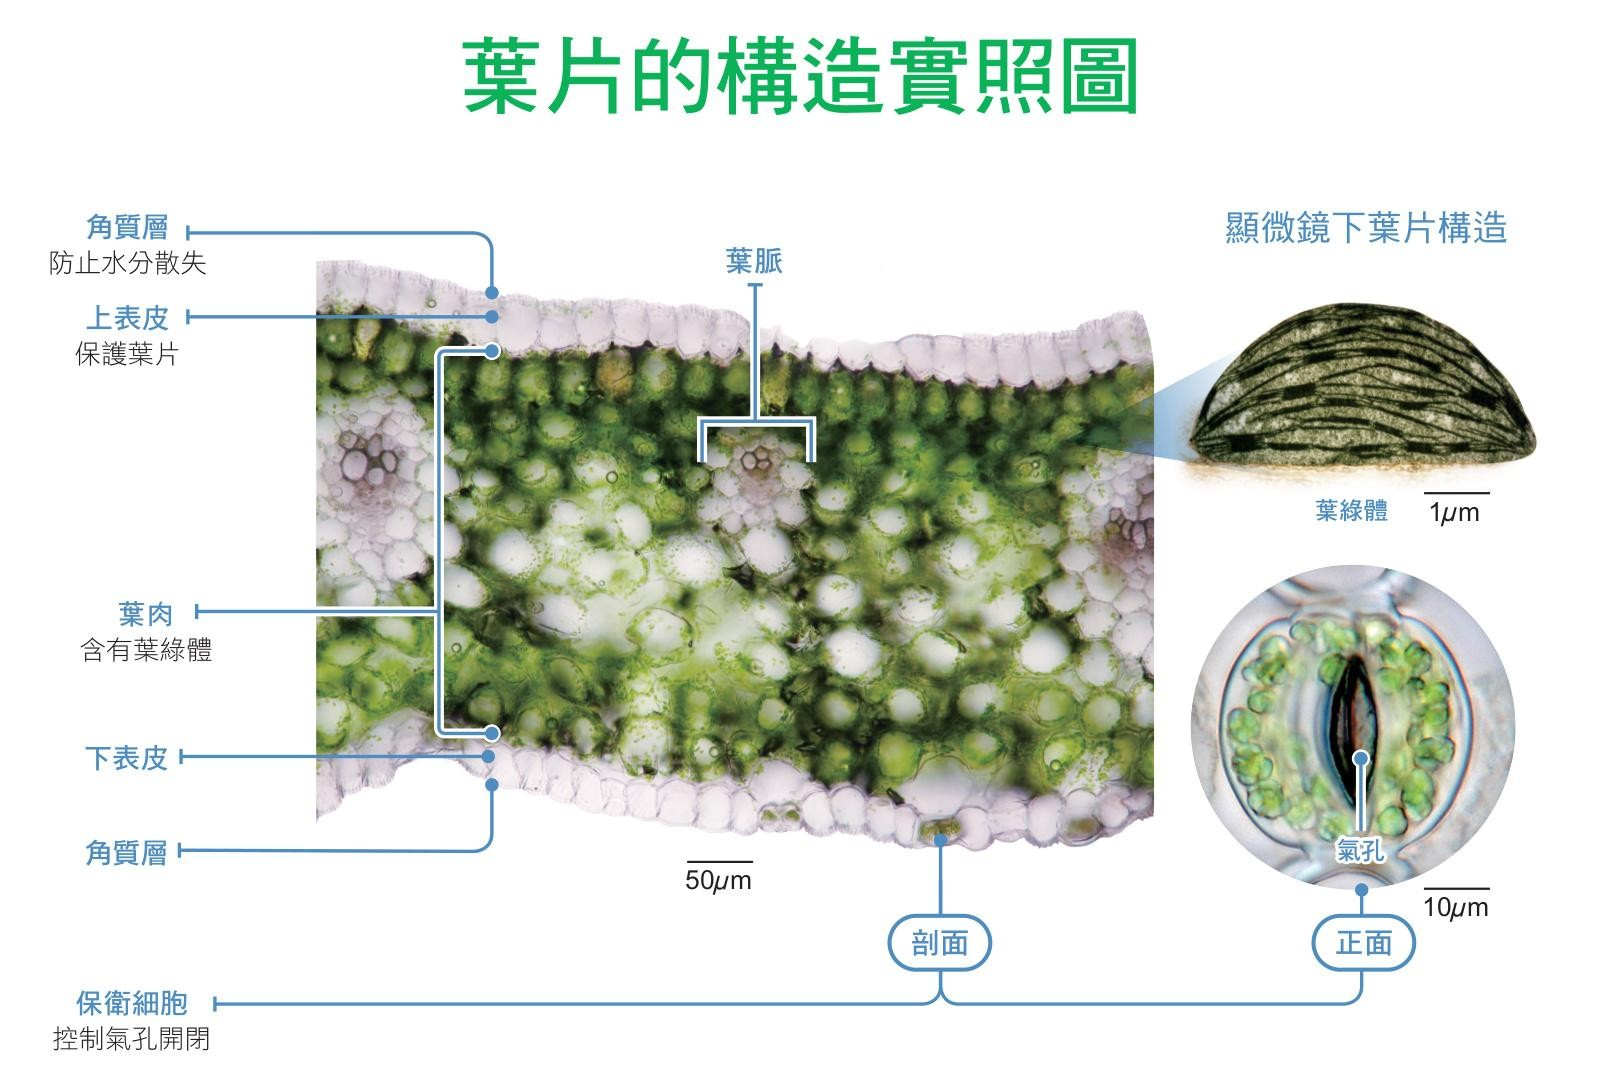
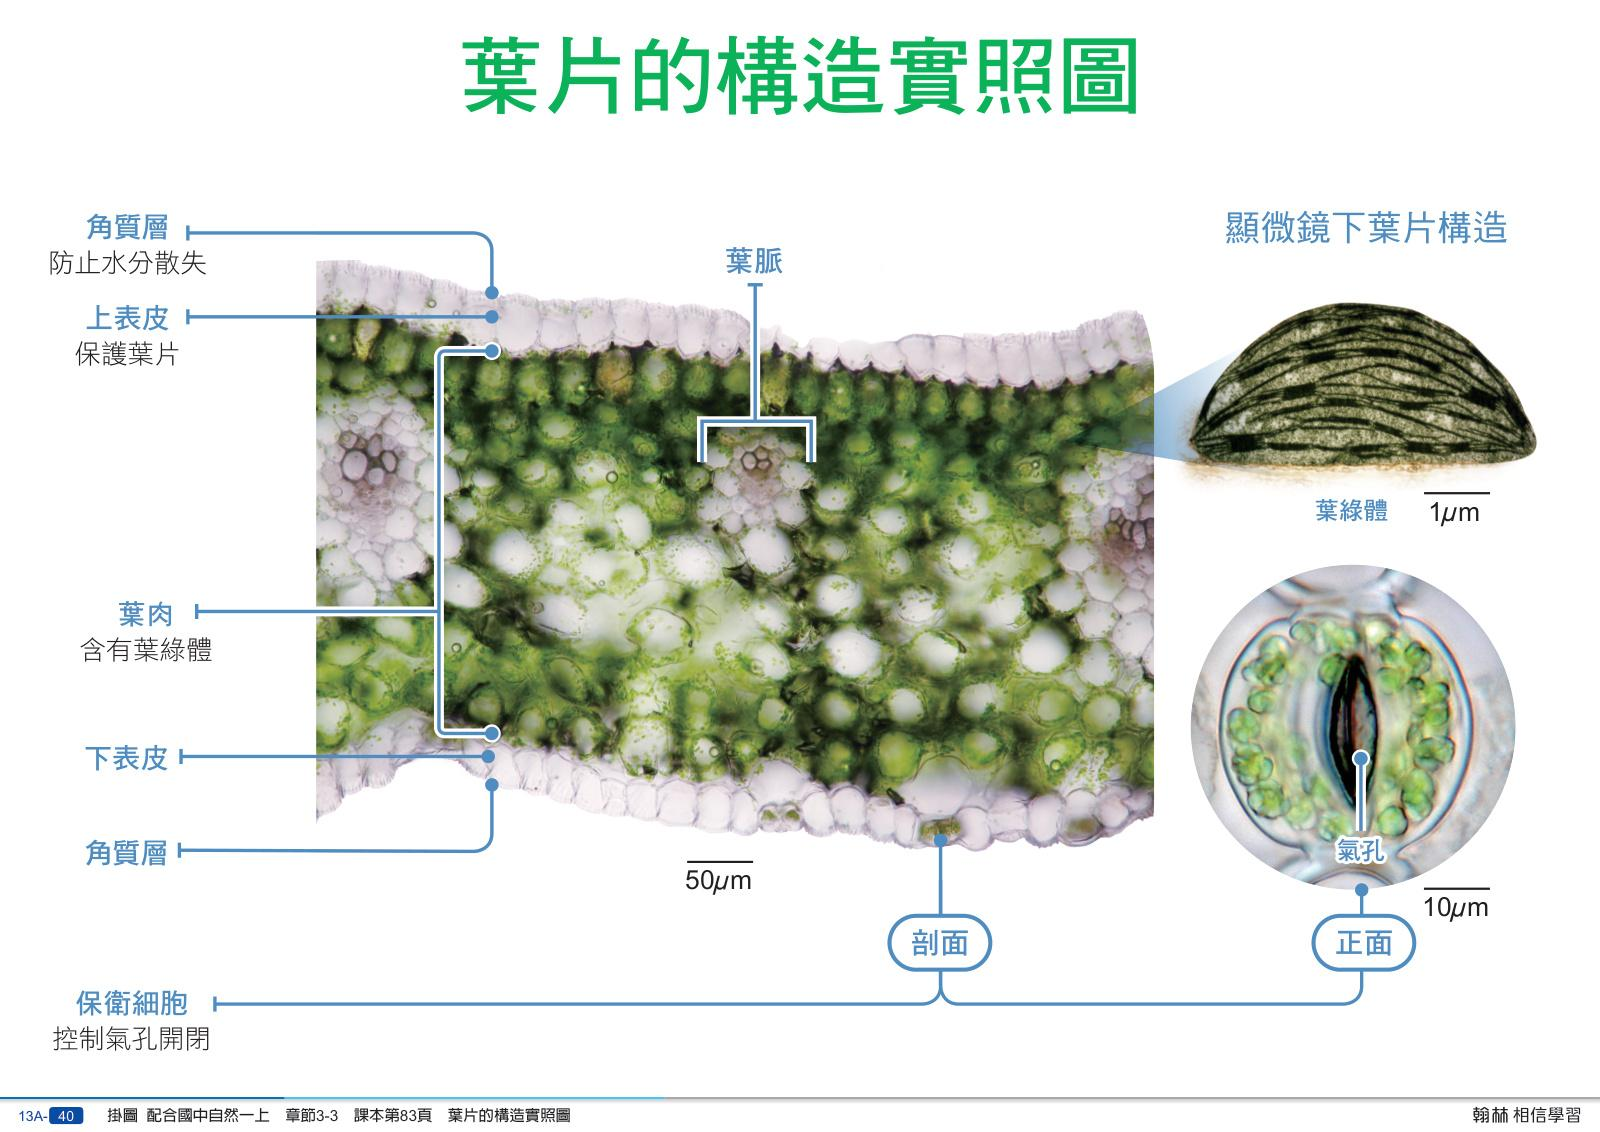
feat(slides): use fresh chap3 uncropped images and update title to 植物如何獲得養分

diff --git a/apps/demo/slides/plant-nutrients/index.tsx b/apps/demo/slides/plant-nutrients/index.tsx
@@ -123,7 +123,7 @@ const PageHeader = ({
         marginBottom: 8,
       }}
     >
-      <span style={{ fontSize: 20 }}>●國中自然科學 · 生物</span>
+      <span style={{ fontSize: 20 }}>●</span>
       <span>{category}</span>
     </div>
     <h2
@@ -163,7 +163,7 @@ const PageFooter = ({ tip }: { tip?: string }) => {
         flexShrink: 0,
       }}
     >
-      <span>{tip ? `💡 重點提示：${tip}` : '國中自然科學 · 植物如何製造養分'}</span>
+      <span>{tip ? `💡 重點提示：${tip}` : '國中自然科學 · 植物如何獲得養分'}</span>
       <span
         style={{
           fontVariantNumeric: 'tabular-nums',
@@ -234,7 +234,9 @@ const Cover: Page = () => (
             borderRadius: '50%',
             background: palette.emerald,
           }}
-        />國中自然科學 · 生物</div>
+        />
+        國中自然科學 · 生物
+      </div>
 
       <h1
         style={{
@@ -257,7 +259,7 @@ const Cover: Page = () => (
             fontSize: '96px',
           }}
         >
-          植物如何製造養分
+          植物如何獲得養分
         </span>
       </h1>
 
@@ -1924,7 +1926,7 @@ export const notes: (string | undefined)[] = [
 ];
 
 export const meta: SlideMeta = {
-  title: '植物如何製造養分',
+  title: '植物如何獲得養分',
   createdAt: '2026-09-18T06:40:00.000Z',
 };
 
